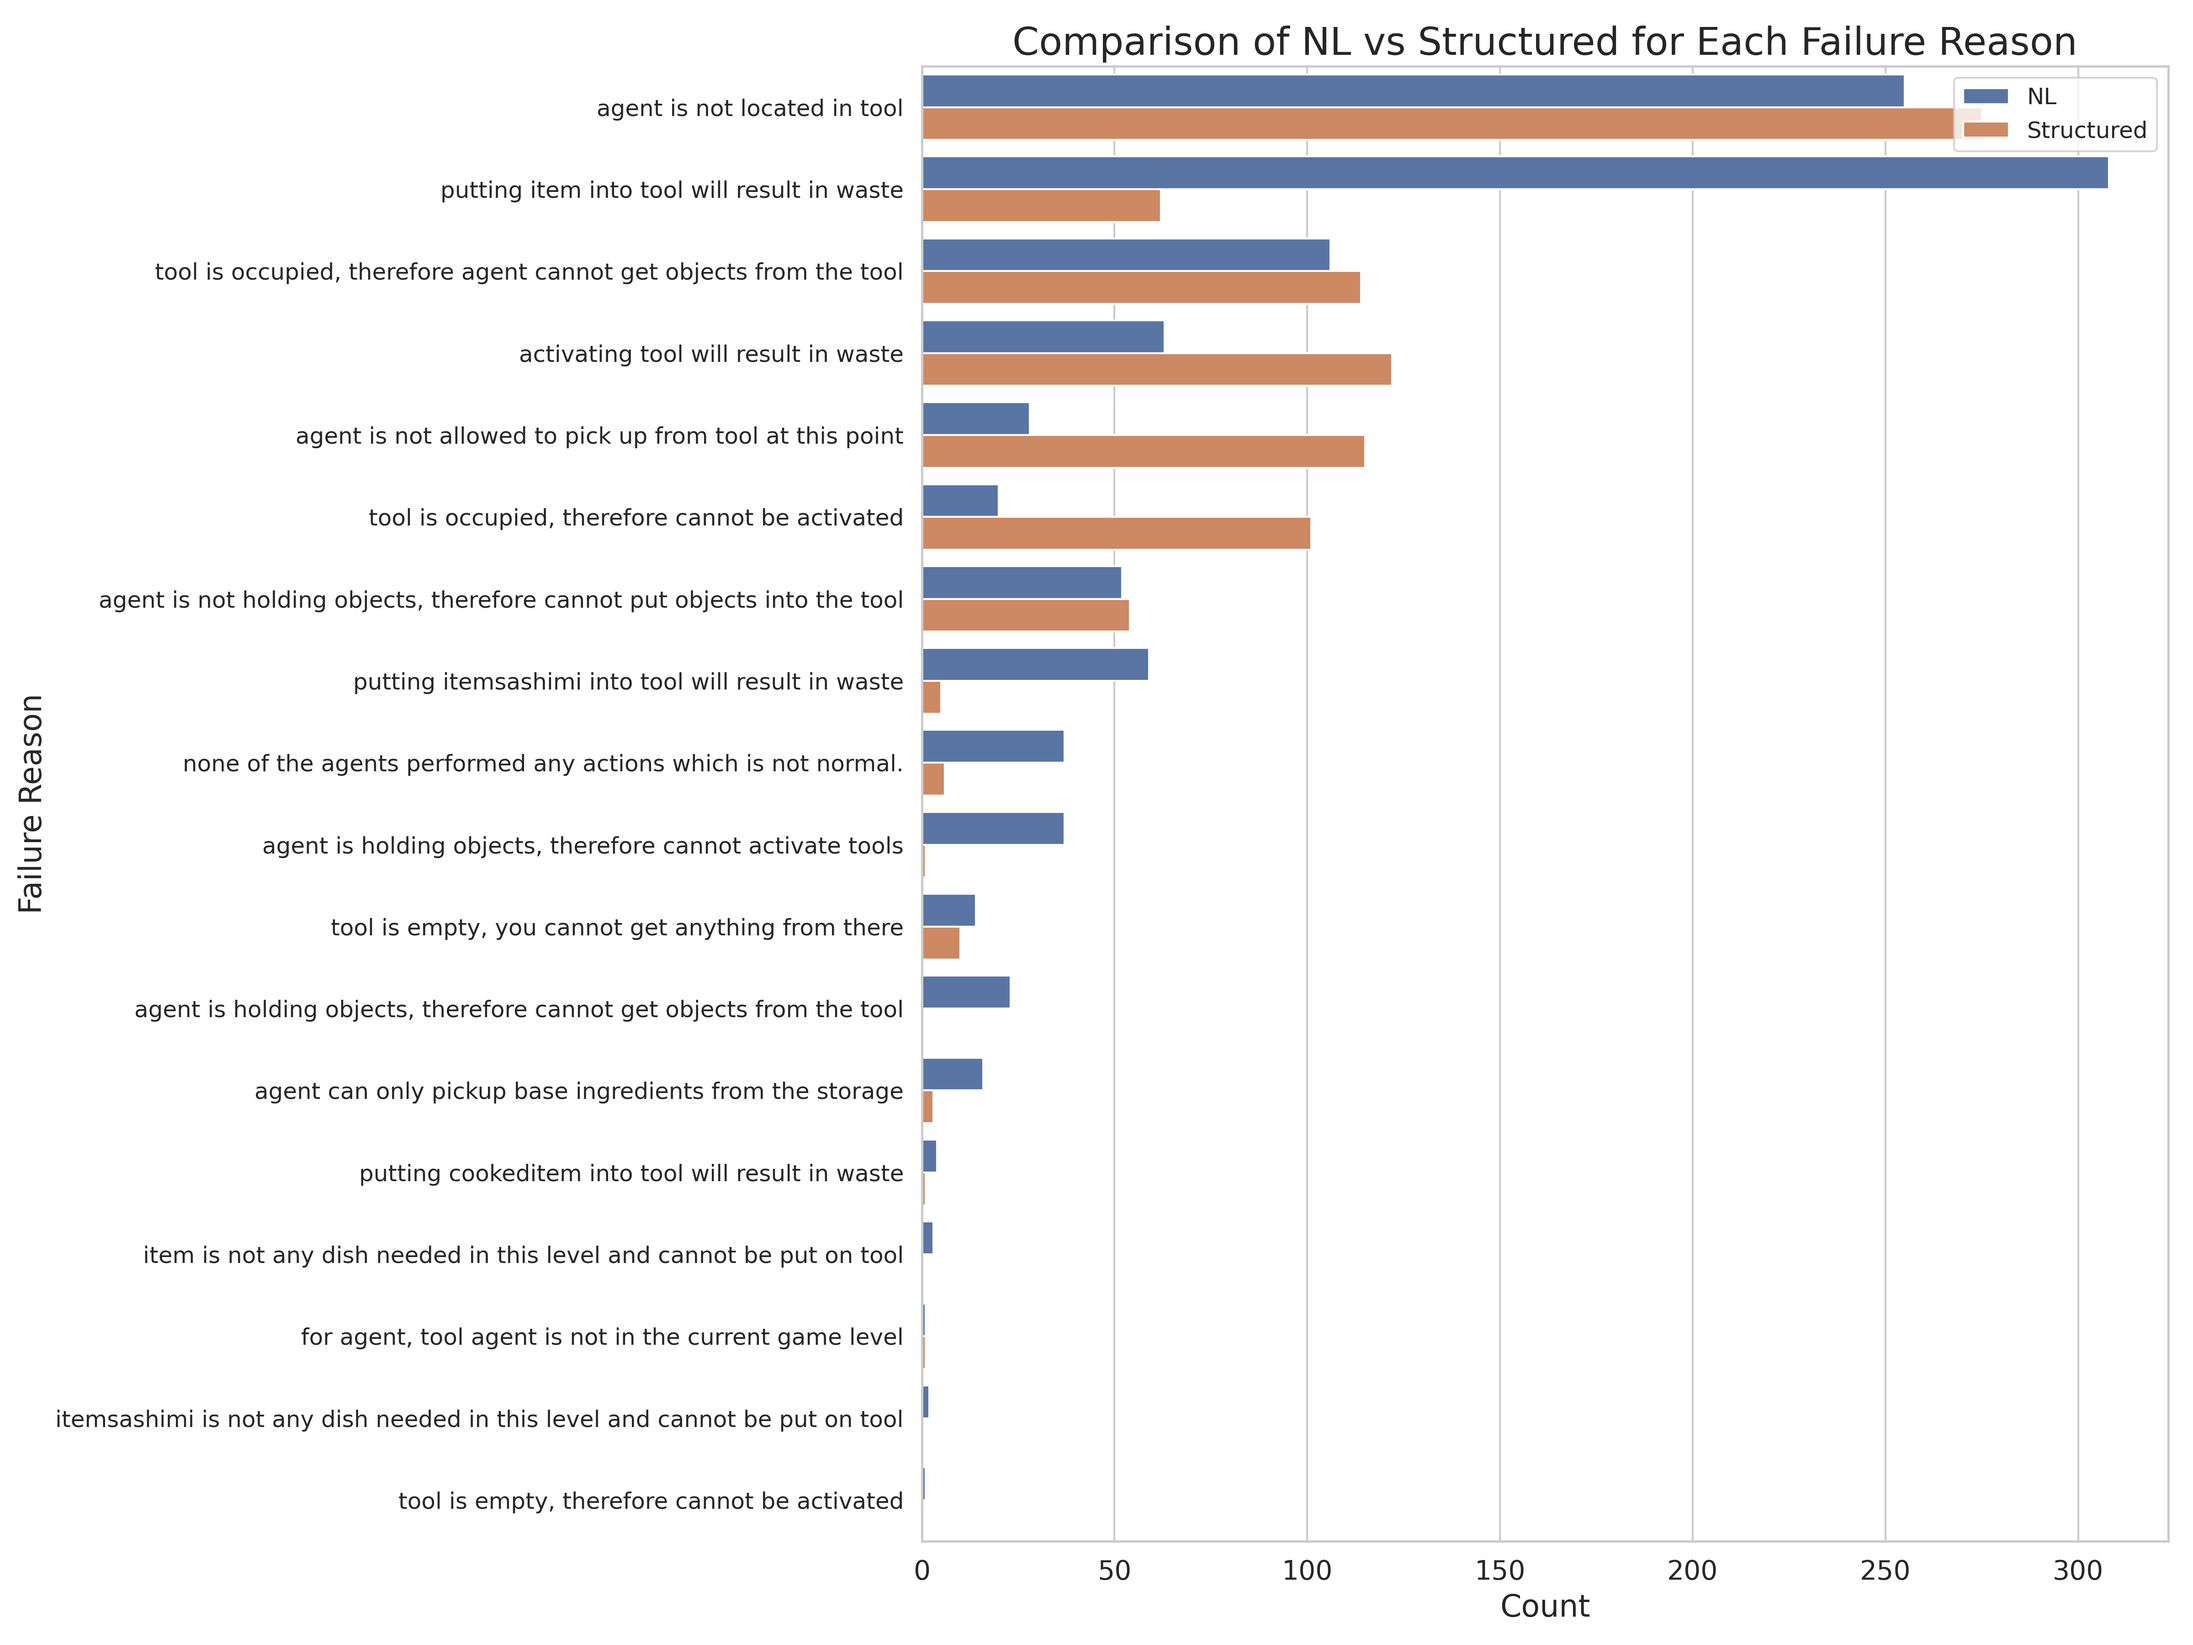
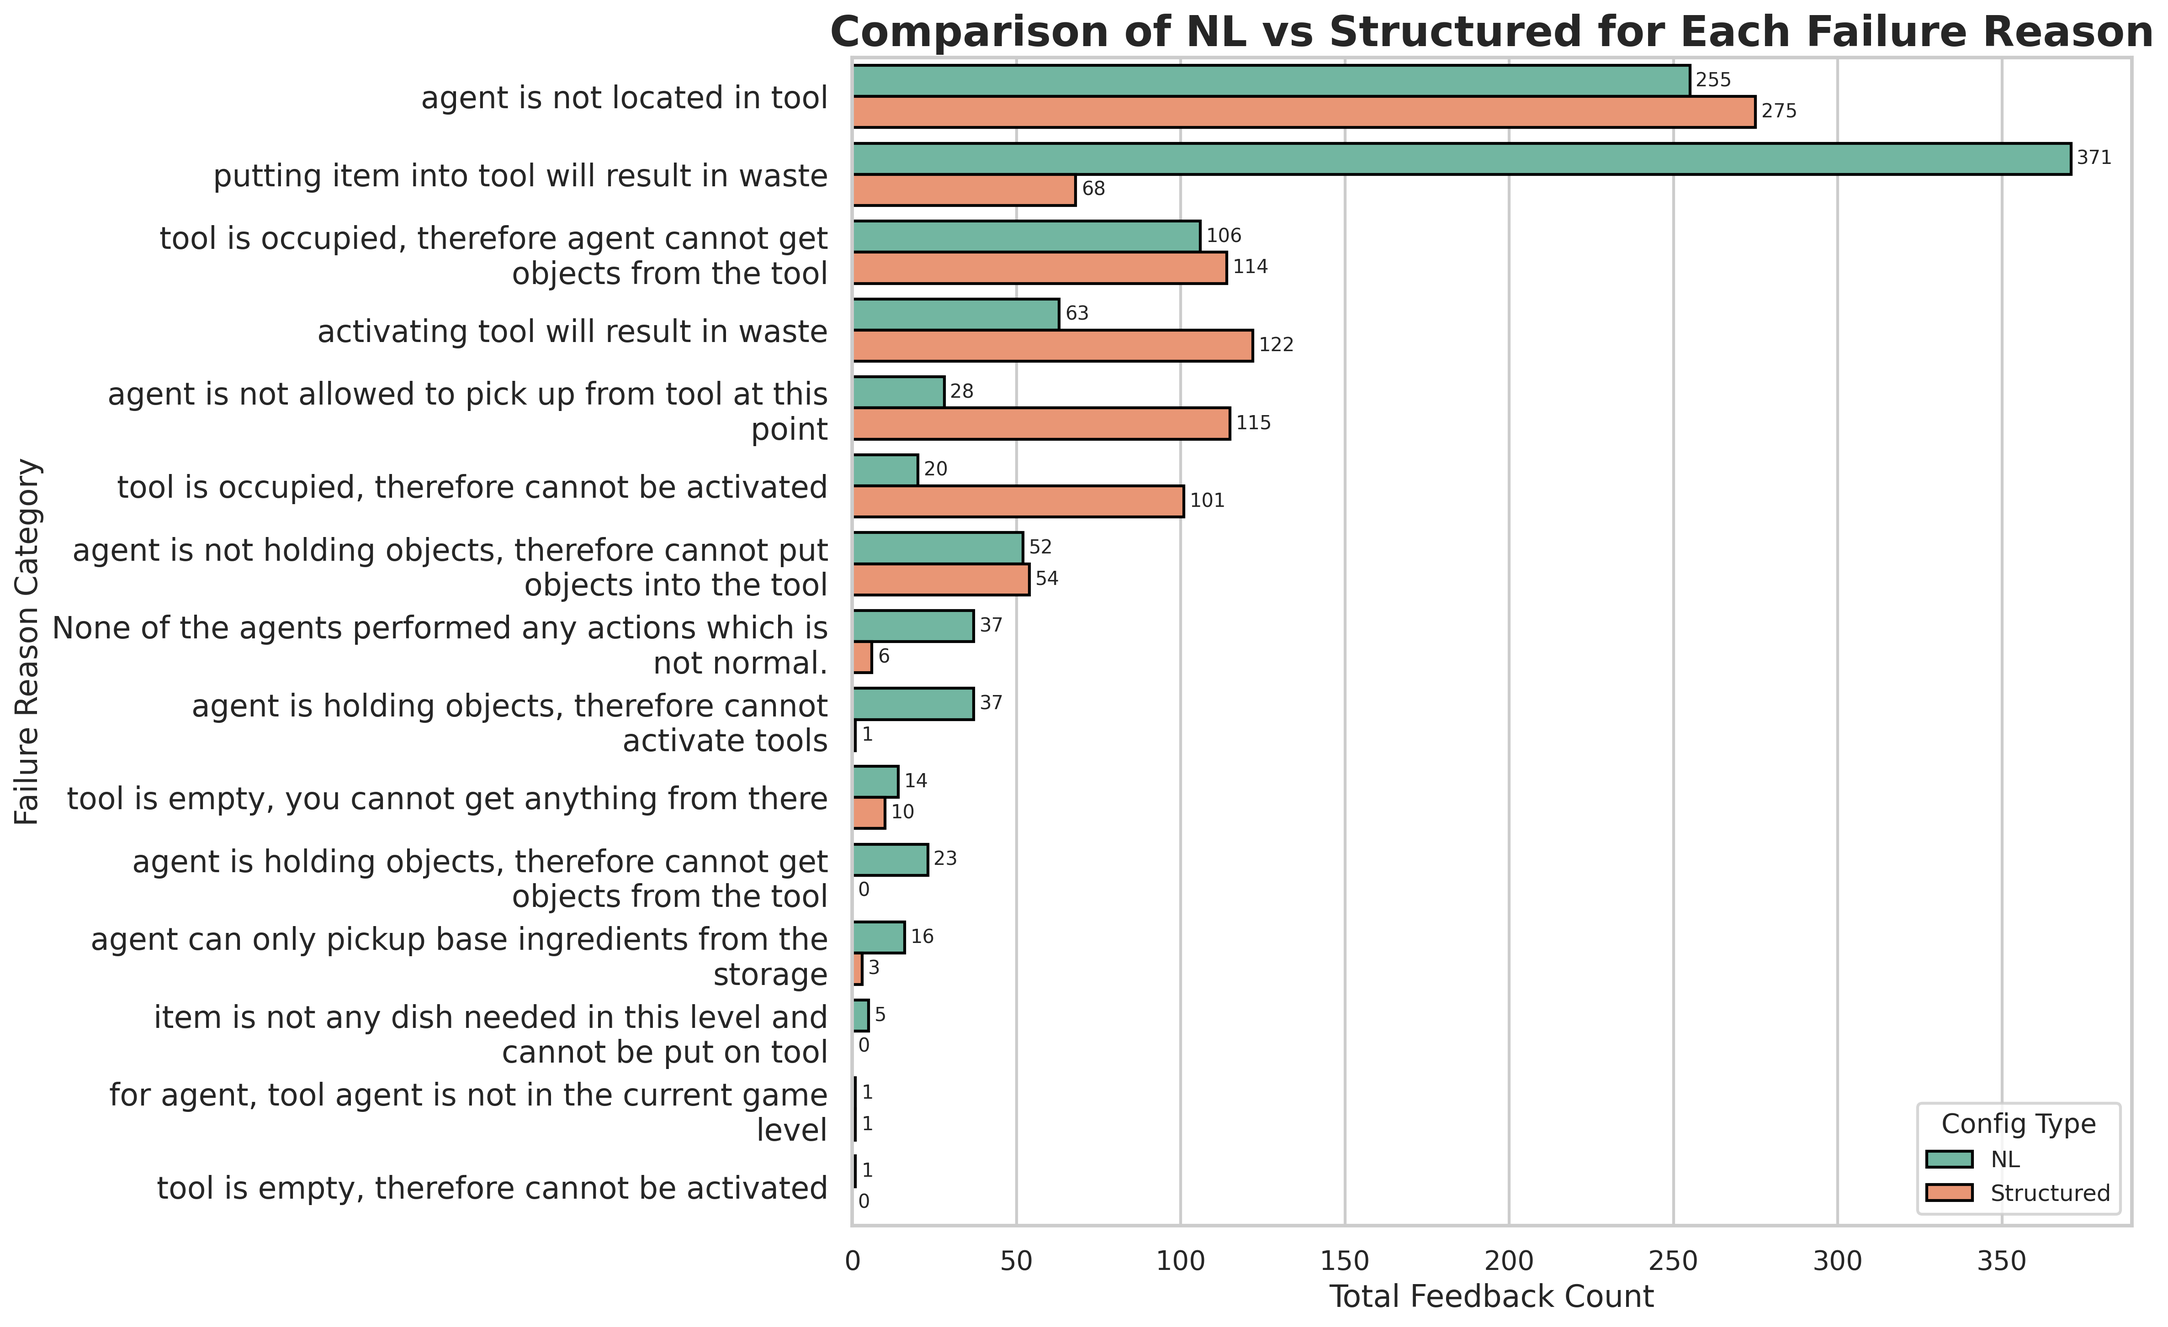
fix vis

diff --git a/project/llm_overcooked/analysis.py b/project/llm_overcooked/analysis.py
@@ -1,11 +1,13 @@
+import os
 import numpy as np
 import json
 import matplotlib.pyplot as plt
 import re
 import pandas as pd
 import seaborn as sns
-from collections import Counter
+import textwrap
 
+from collections import Counter
 from overcooked import World
 
 result_files = [
@@ -118,10 +120,9 @@ def replay(level, num_agents, files):
     return output
 
 def normalize_pattern(sentence):
-    sentence = sentence.lower()
     sentence = re.sub(r'agent\d+', 'agent', sentence)
     sentence = re.sub(r'blender\d+|storage\d+|servingtable\d+|pot\d+|mixer\d+|chopboard\d+|pan\d+|fryer\d+|steamer\d+|oven\d+', 'tool', sentence)
-    sentence = re.sub(r'salmon|flour|salmonMeatcake|salmonSashimi|cookedRice|rice|tuna', 'item', sentence)
+    sentence = re.sub(r'salmonMeatcake|salmonSashimi|tunaSashimi|cookedRice|salmon|flour|rice|tuna', 'item', sentence)
     return sentence.strip()
 
 def parse_failure_data(file_path):
@@ -140,7 +141,9 @@ def parse_failure_data(file_path):
             elif line == '--------------------------------------------------' or not line:
                 continue
             else:
-                normalized_cat = normalize_pattern(line.split(':')[0])
+                normalized_cat = normalize_pattern(line.split(':')[0]).strip()
+                if normalized_cat:
+                    normalized_cat = normalized_cat[0].upper() + normalized_cat[1:]
                 pattern_set.add(normalized_cat)
                 match = re.match(r"(.+): (\d+)", line)
                 if match:
@@ -159,36 +162,48 @@ def aggregate_and_plot(df, top_n=20):
     # Pivot for barplot
     pivot_df = grouped.pivot(index='Category', columns='Config', values='Count').fillna(0)
 
-    # Step 1: Reset index and melt to long-form
     df_melted = pivot_df.reset_index().melt(id_vars='Category', var_name='Config', value_name='Count')
+    df_melted['Category'] = df_melted['Category'].apply(lambda x: '\n'.join(textwrap.wrap(x, width=50)))
 
-    # Sort categories by total count for better visualization
+    sns.set_theme(style="whitegrid", context="talk")
+    plt.figure(figsize=(16, 10))
+
+    # Reorder categories by total count
     category_order = df_melted.groupby('Category')['Count'].sum().sort_values(ascending=False).index
 
-    # Set a larger font scale
-    sns.set_context("talk", font_scale=1.2)  # 'talk' context is good for presentations
+    # Use a color palette that is both vibrant and accessible
+    palette = sns.color_palette("Set2", n_colors=df_melted['Config'].nunique())
 
-    # Create the grouped bar plot
-    plt.figure(figsize=(16, 12))
-    sns.set(style="whitegrid")
-    sns.barplot(
+    # Draw the barplot
+    barplot = sns.barplot(
         data=df_melted,
         y='Category',
         x='Count',
         hue='Config',
-        order=category_order
+        order=category_order,
+        palette=palette,
+        edgecolor='black'
     )
 
-    # Aesthetic tweaks
-    plt.title('Comparison of NL vs Structured for Each Failure Reason', fontsize=20)
-    plt.xlabel('Count', fontsize=16)
-    plt.ylabel('Failure Reason', fontsize=16)
+    # Add count labels on the bars
+    for container in barplot.containers:
+        barplot.bar_label(container, fmt='%d', label_type='edge', fontsize=10, padding=3)
+
+    # Titles and labels
+    plt.title('Comparison of NL vs Structured for Each Failure Reason', fontsize=22, weight='bold')
+    plt.xlabel('Total Feedback Count', fontsize=16)
+    plt.ylabel('Failure Reason Category', fontsize=16)
+
+    # Customize ticks
     plt.xticks(fontsize=14)
-    plt.yticks(fontsize=12)
-    plt.legend(fontsize=12, loc='upper right')
+    plt.yticks(fontsize=16)
+
+    # Move legend outside plot if many categories
+    plt.legend(title='Config Type', title_fontsize=14, fontsize=12, loc='lower right')
+
+    # Clean layout
     plt.tight_layout()
-    
-    plt.savefig('figs/feedbacks_aggregated.png', dpi=300)
+    plt.savefig('figs/feedbacks_aggregated.png', dpi=300, bbox_inches='tight')
 
 def draw_feedback():
     file_path = 'feedbacks.txt'
@@ -202,8 +217,9 @@ if __name__ == "__main__":
     # draw('level_0', level_0)
     # draw('level_3', level_3)
 
-    output = replay(level='level_0', num_agents=2, files=level_0)
-    output += replay(level='level_3', num_agents=3, files=level_3)
-    with open('feedbacks.txt', 'w') as f:
-        f.write(output)
+    if not os.path.exists("feedbacks.txt"):
+        output = replay(level='level_0', num_agents=2, files=level_0)
+        output += replay(level='level_3', num_agents=3, files=level_3)
+        with open('feedbacks.txt', 'w') as f:
+            f.write(output)
     draw_feedback()
